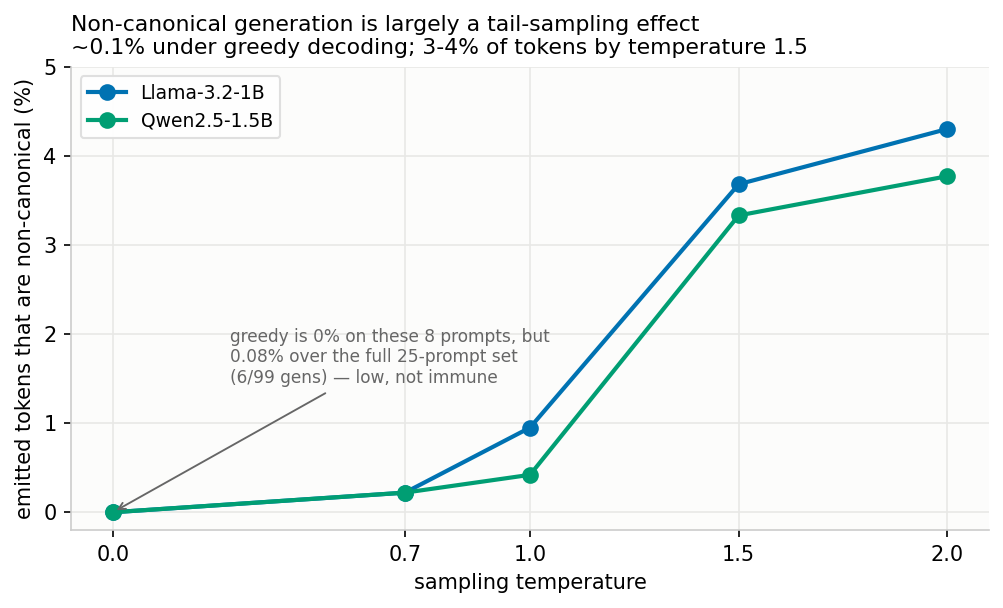
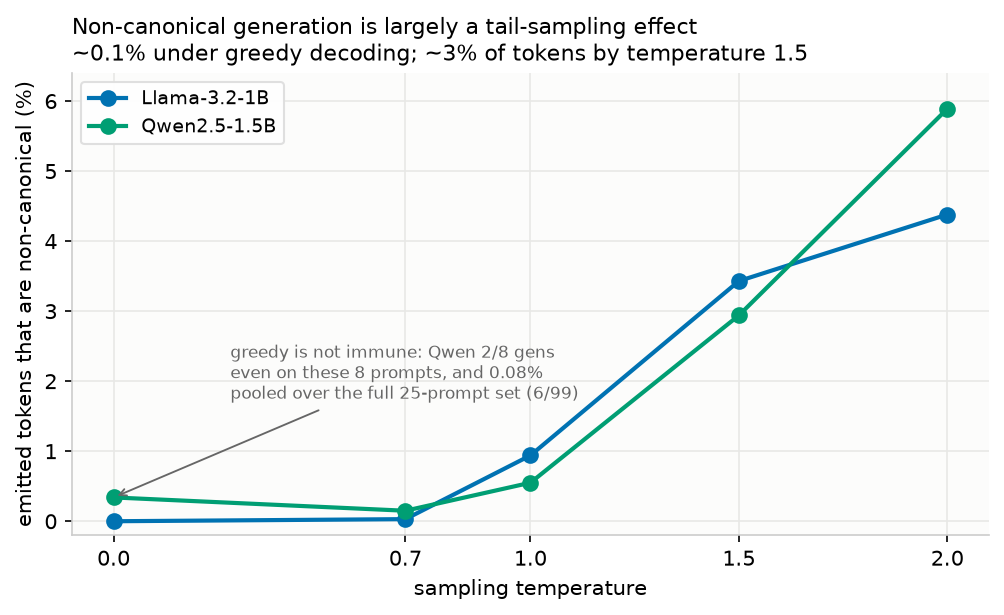
Align every quoted number with the published artifacts; fix broken repro path
From a full independent re-verification of WRITEUP.md against the HF dataset
(all headline tables reproduce exactly; these are the deviations found):

- "0 induced of 294 compliant productions" -> 346 (of 348 trials): 294 matches
  no quantity computable from api/induce_*.jsonl; 346 is the sum of the
  results table itself. Fixed in WRITEUP, README; RESULTS annotated.
- Decay + temperature tables/figures now quote the published pinned re-run
  artifacts (recomputable via --from-jsonl) instead of the unpublished
  original sweeps; RESULTS erratum records both sets of values.
- "8-prompt subset reads 0% at greedy" contradicted by the published
  temperature artifact (Qwen 2/8 at temp 0) — reworded, and the figure
  annotation updated.
- WRITEUP Data section commands: the documented two-liner failed verbatim
  (huggingface-cli not on PATH; the *.jsonl glob crashed phase2_verify on
  induce_* files). Replaced with the verified working path; phase2_verify now
  skips non-rate-table schemas gracefully.
- 0.0003 retok-transcript probability is seed-0 only -> quoted as per-seed
  range 0.0003-0.0007 and recorded in RESULTS (was absent).
- Smaller fixes: CJK by-script range 0.00-1.07% (was 0.12-1.07%), OpenAI-line
  ceiling 0.015% (4.1-mini is 0.0143%), DeepSeek V3-0324 english slice noted
  (0.14%, n=5 gens), Qwen3 usable gens 92 not ~89, truncation-table
  conditioning documented, EXPERIMENT_PLAN stale confounded numbers annotated,
[…]

diff --git a/retok/figures.py b/retok/figures.py
@@ -262,20 +262,21 @@ def plot_scale_ladder(out_path: Path) -> None:
 # Temperature sweep (code+multilingual prompts, 48 gens/cell; the temp-0 cell is
 # 8 deterministic gens, since greedy repeats). See RESULTS.md.
 #
-# NOTE the temp-0 zeros below are subset-limited, not a true zero: re-running
-# greedy over the full 25-prompt set finds 0.08% pooled across four models
-# (RESULTS.md, "Greedy decoding is NOT 0%"). The 8-prompt sweep set contains no
-# arithmetic prompts, which is where GPT-2's greedy hits are. Kept as measured
-# so this curve stays one internally-consistent experiment; the annotation on
-# the plot carries the correction.
+# Values are the published temperature_*.jsonl artifacts (pinned re-run of the
+# sweep, 48 gens/cell, seed 0) so the figure matches what a reader can recompute
+# via `phase2_temperature --from-jsonl`. NOTE the temp-0 cells are an 8-prompt
+# subset (deterministic, so n-samples adds nothing): Llama reads 0% there but
+# Qwen 2/8 (0.34%/tok), and the full 25-prompt greedy run finds 0.08% pooled
+# across four models (RESULTS.md, "Greedy decoding is NOT 0%") — greedy is low,
+# not immune. The annotation on the plot carries this.
 PHASE2_TEMPS = [0.0, 0.7, 1.0, 1.5, 2.0]
 # CONTROLLED (pure sampling). Per-generation here is fine: it's a within-model
 # comparison at FIXED generation length, so the length-saturation problem that
 # rules per-generation out for cross-domain comparison doesn't apply.
 PHASE2_TEMP_RATES = {  # per-TOKEN % (we report per-token everywhere; the
     # per-generation rate saturates with length and isn't comparable)
-    "Llama-3.2-1B": ([0.00, 0.22, 0.95, 3.68, 4.30], "#0072B2"),
-    "Qwen2.5-1.5B": ([0.00, 0.22, 0.42, 3.33, 3.77], "#009E73"),
+    "Llama-3.2-1B": ([0.00, 0.03, 0.94, 3.43, 4.38], "#0072B2"),
+    "Qwen2.5-1.5B": ([0.34, 0.15, 0.55, 2.94, 5.89], "#009E73"),
 }
 
 
@@ -298,20 +299,20 @@ def plot_temperature(out_path: Path) -> None:
     ax.set_xticks(PHASE2_TEMPS)
     ax.set_xlabel("sampling temperature")
     ax.set_ylabel("emitted tokens that are non-canonical (%)")
-    ax.set_ylim(-0.2, 5.0)
+    ax.set_ylim(-0.2, 6.4)
     ax.set_title(
         "Non-canonical generation is largely a tail-sampling effect\n"
-        "~0.1% under greedy decoding; 3-4% of tokens by temperature 1.5",
+        "~0.1% under greedy decoding; ~3% of tokens by temperature 1.5",
         fontsize=10.5,
         loc="left",
     )
-    # The 0.0 points read as an exact zero, which a wider prompt set refutes.
+    # The 0.0 points read as near-zero, which a wider prompt set refutes.
     ax.annotate(
-        "greedy is 0% on these 8 prompts, but\n"
-        "0.08% over the full 25-prompt set\n"
-        "(6/99 gens) — low, not immune",
-        xy=(0.0, 0.0),
-        xytext=(0.28, 1.45),
+        "greedy is not immune: Qwen 2/8 gens\n"
+        "even on these 8 prompts, and 0.08%\n"
+        "pooled over the full 25-prompt set (6/99)",
+        xy=(0.0, 0.34),
+        xytext=(0.28, 1.75),
         fontsize=8.2,
         color=MUTED,
         arrowprops={"arrowstyle": "->", "color": MUTED, "linewidth": 0.9},
@@ -562,10 +563,12 @@ def plot_phase2_rates(out_path: Path) -> None:
     print(f"Wrote {out_path}")
 
 
-# Causal-contamination decay (phase2_decay, Llama-3.2-1B, 49 spans).
+# Causal-contamination decay (phase2_decay, Llama-3.2-1B, 60 spans). Values are
+# the published decay_*.jsonl artifact (pinned re-run) so the figure matches
+# what a reader can recompute via `phase2_decay --from-jsonl`.
 DECAY_D = [0, 1, 2, 4, 8, 16, 32, 64]
-DECAY_MEDKL = [0.227, 0.062, 0.025, 0.016, 0.007, 0.004, 0.003, 0.002]
-DECAY_FLIP = [50, 27, 14, 20, 12, 9, 11, 15]
+DECAY_MEDKL = [0.392, 0.118, 0.043, 0.014, 0.012, 0.005, 0.002, 0.004]
+DECAY_FLIP = [50, 39, 27, 16, 18, 15, 7, 12]
 
 
 def plot_decay(out_path: Path) -> None:
@@ -595,7 +598,7 @@ def plot_decay(out_path: Path) -> None:
     )
     ax1.set_yscale("log")
     ax1.set_ylabel("median next-token KL (nats)")
-    ax1.set_title("Magnitude dilutes ~100x by 16 tokens", fontsize=10, loc="left")
+    ax1.set_title("Magnitude dilutes ~78x by 16 tokens", fontsize=10, loc="left")
 
     ax2.plot(
         DECAY_D,
@@ -609,11 +612,11 @@ def plot_decay(out_path: Path) -> None:
     ax2.set_ylim(0, 56)
     ax2.set_ylabel("top-1 next-token flips (%)")
     ax2.set_title(
-        "...but the flip rate plateaus near 10%, it doesn't vanish",
+        "...but the flip rate plateaus near 10-15%, it doesn't vanish",
         fontsize=10,
         loc="left",
     )
-    ax2.axhspan(9, 15, color=ORANGE, alpha=0.10, zorder=1)
+    ax2.axhspan(7, 18, color=ORANGE, alpha=0.10, zorder=1)
 
     fig.suptitle(
         "A single non-canonical token perturbs every later position",

diff --git a/retok/phase2_verify.py b/retok/phase2_verify.py
@@ -44,6 +44,12 @@ def verify(paths: list[Path]) -> int:
         if not records:
             print(f"{path}: EMPTY")
             continue
+        if "generated_ids" not in records[0]:
+            # e.g. induce_*.jsonl (induction trials) swept in by a glob —
+            # different schema, verified by its own tooling.
+            print(f"\n=== {path.name} ===")
+            print("  SKIPPED — no generated_ids field (not a rate-table artifact)")
+            continue
         model = records[0]["model"]
         try:
             tok = AutoTokenizer.from_pretrained(model)

diff --git a/WRITEUP.md b/WRITEUP.md
@@ -38,7 +38,7 @@ digit-by-digit (3 tokens), sometimes as a single "merged" answer token.
 | how often it *prefers* the one-token form (full-vocab argmax) | **0%** |
 | probability it assigns the correct one-token answer | **0.003** |
 | decode positions: actual → re-tokenized | **3 → 1** (whole transcript 13 → 7) |
-| probability of the answer given the *re-tokenized* transcript | **0.0003** |
+| probability of the answer given the *re-tokenized* transcript | **0.0003–0.0007** (per seed) |
 
 <sub>The two middle rows are conditioned differently, which is worth stating
 because they look inconsistent otherwise. The 1.3% is an argmax *restricted to
@@ -61,18 +61,20 @@ no token-ID logging at all.
 whitespace, so a bad split of one word doesn't change how later words encode —
 the *tokenization* recovers at the next word boundary. But *causal* damage
 outlives it: attention is causal, so every later position attends to a token that
-was never emitted. Walking forward from a non-canonical span in Llama-3.2-1B:
+was never emitted. Walking forward from a non-canonical span in Llama-3.2-1B
+(60 spans; the published `decay_*.jsonl` artifact, recomputable via
+`phase2_decay --from-jsonl`):
 
 | tokens past the span | median next-token KL | top-1 flip |
 |---:|---:|---:|
-| 0 | 0.227 | 50% |
-| 4 | 0.016 | 20% |
-| 16 | 0.004 | 9% |
-| 64 | 0.002 | 15% |
+| 0 | 0.392 | 50% |
+| 4 | 0.014 | 16% |
+| 16 | 0.005 | 15% |
+| 64 | 0.004 | 12% |
 
-Magnitude decays ~57× within 16 tokens (and ~110× by 64), but the flip rate
-plateaus near 10%
-rather than vanishing. Those distant flips are near-ties (median KL 0.002), so
+Magnitude decays ~78× within 16 tokens (and ~98× by 64), but the flip rate
+plateaus near 10–15%
+rather than vanishing. Those distant flips are near-ties (median KL 0.004), so
 the practical reading is: **the span's neighbourhood is genuinely unreliable for
 per-position analysis; further out, only positions where the model was
 near-indifferent are affected.**
@@ -104,7 +106,7 @@ generations reach 5.2%. Those labels are the *prompt's* language, though, and
 the small models answer Russian and Japanese prompts mostly in English
 (Llama-3.2-1B emits 7% CJK characters for CJK prompts; Llama-3.1-8B emits 37%).
 Re-attributing each token to the script it is actually written in, **CJK tokens
-are among the lowest-rate tokens, not the highest** (0.12–1.07%).
+are among the lowest-rate tokens, not the highest** (0.00–1.07%).
 
 What drives the domain effect is the prompt pushing the model off-distribution.
 Holding script fixed at Latin, Llama-3.2-1B is non-canonical on 0.03% of Latin
@@ -116,17 +118,18 @@ domain column as "how far outside its comfort zone the prompt puts the model",
 not as "how hard this script is to tokenize".
 
 **Temperature dominates everything.** **0.08%** of tokens under greedy
-decoding, **0.4–1.0%** at temperature 1.0, and **3–4%** by temperature 1.5 — a
-~4× jump for half a point of temperature. This is largely a tail-sampling
+decoding, **0.5–1.0%** at temperature 1.0, and **~3–3.5%** by temperature 1.5 — a
+4–5× jump for half a point of temperature. This is largely a tail-sampling
 phenomenon: models concentrate mass on the canonical continuation, and most of
 these tokens come out of the tail.
 
 Greedy is **not zero**: at argmax across 99 generations from four models, 6
 contained a non-canonical span — the model's *most likely* continuation is
-sometimes a non-canonical token. (An 8-prompt subset reads 0% at greedy; the
-full 25-prompt set does not, because GPT-2's greedy hits are concentrated in
-arithmetic prompts.) Temperature moves the rate roughly an order of magnitude,
-from 0.08% at greedy to 3–4% at 1.5.
+sometimes a non-canonical token. (An early 8-prompt sweep read 0% at greedy;
+neither the full 25-prompt set nor the published re-run of that sweep does —
+GPT-2's greedy hits are concentrated in arithmetic prompts, and Qwen hits on
+2 of the 8 even there.) Temperature moves the rate ~40×,
+from 0.08% at greedy to ~3% at 1.5.
 
 ![Non-canonical rate vs temperature](figures/phase2_temperature.png)
 
@@ -166,14 +169,15 @@ fake, a zero rate is ambiguous with provider-side re-serialization.
 
 | frontier model | pooled per-token |
 |---|---:|
-| gpt-4o / gpt-4.1 (+ minis) | ≤0.014% |
+| gpt-4o / gpt-4.1 (+ minis) | ≤0.015% |
 | Qwen3-235B-A22B-2507 | 0% observed in 23k tokens |
 | **DeepSeek V3-0324 / V3.1** | **0.39% / 0.38%** |
 
 A **40× spread among current frontier models** — the rate is
 lineage-dependent, not uniformly vanishing. The two DeepSeek generations
 replicate each other, and V3.1 is nonzero even on English (0.17%, vs
-0.00–0.03% for every other modern model here); its spans are mostly
+0.00–0.03% for the OpenAI and Qwen lines; V3-0324's English slice reads 0.14%
+on a thin 5 generations); its spans are mostly
 punctuation–newline boundary splits. Everything in one picture:
 
 ![All 17 models, 2019–2025: falling but lineage-dependent](figures/phase2_overview.png)
@@ -187,7 +191,8 @@ are externally unmeasurable on every serving path we found.**
 
 **Report the length, and report per-token.** The per-*generation* rate — "did
 this sample contain a non-canonical span?" — is a strong function of how long
-you sampled: truncating our generations to 32/64/128/200 tokens moves GPT-2 from
+you sampled: truncating our generations to 32/64/128/200 tokens (counting, at
+each N, the generations that emitted at least N tokens) moves GPT-2 from
 20% to 64% while its per-token rate stays at ~1.6%. That follows from BPE being
 non-recovering: once a sequence goes off-canonical, every extension stays
 off-canonical, so the sequence-level flag only accumulates and saturates at
@@ -232,7 +237,7 @@ complies."
 every API-measurable frontier model (gpt-4o/4.1 lines, DeepSeek-V3.1,
 Qwen3-235B; `phase2_induce_api.py`) gets 97–100% compliance, which removes the
 small models' limiting factor and cleanly isolates the tokenization question:
-**0 induced of 294 compliant productions.** Given the ideal semantic setup,
+**0 induced of 346 compliant productions** (of 348 trials). Given the ideal semantic setup,
 frontier models emit the canonical compound every time. Combined with the rate
 table, the frontier picture is two-axis: DeepSeek emits non-canonical tokens
 *spontaneously* but cannot be *steered* into targeted splits; the OpenAI and
@@ -361,10 +366,13 @@ a HuggingFace dataset:
 Generation needs a GPU; **analysis doesn't**:
 
 ```bash
-huggingface-cli download brendanlong/retok-noncanonical-tokenization \
-    --repo-type dataset --local-dir data/retok/artifacts
-uv run python -m retok.phase2_verify data/retok/artifacts/*.jsonl
+uv run python -m retok.phase2_verify --all-published  # the rate table, from raw IDs
+bash scripts/reproduce_analyses.sh                    # every table in this writeup
 ```
 
 That recomputes canonicality from the raw IDs rather than trusting our stored
-flags, so every rate above is checkable independently of our generation step.
+flags, so the rates above are checkable independently of our generation step.
+One provenance note: the interp/decay/temperature divergence artifacts are
+pinned re-runs (the original sweeps predate artifact publishing), and the decay
+and temperature numbers above quote those published artifacts; the original
+runs' values, where they differ slightly, are preserved in RESULTS.md.

diff --git a/RESULTS.md b/RESULTS.md
@@ -28,6 +28,44 @@
 > the final 80-trial artifacts were generated. WRITEUP.md §3 carries the
 > correct numbers; the headline induction results (38/41, 6/8, the controls,
 > and the pooled Fisher test) recompute exactly.
+>
+> **Further errata (annotation, 2026-08-24, from a full independent
+> re-verification of every quoted number against the published artifacts —
+> log body still verbatim):**
+>
+> - **"0 induced of 294 compliant productions" is wrong; the correct count is
+>   346** (60+60+60+60+48+58 — the sum of the section's own table; 348 trials,
+>   2 Qwen trials returned no logprobs and left no record). No quantity
+>   computable from the `api/induce_*.jsonl` records equals 294. The error
+>   understates n, so the null is unaffected.
+> - **Frontier logprobs table:** Qwen3-235B usable generations are 92 in the
+>   published artifact, not "~89". The V3-0324 english cell (shown "—") is
+>   0.14% per-token in its artifact (2/1,415 tokens, from 1 of only 5 english
+>   generations) — thin, but it means "0.00–0.03% english for every other
+>   modern model" should exclude the DeepSeek lineage, not just V3.1.
+>   gpt-4.1-mini pooled is 0.0143%, so "0.01%" rounds it down.
+> - **The published `temperature_*` / `decay_*` / `interp_*` artifacts are
+>   pinned re-runs** (`scripts/regenerate_divergence_artifacts.sh`; the
+>   original sweeps predate artifact publishing and their invocations were not
+>   fully recorded). Cell values differ from the tables below at the 20–60%
+>   relative level with identical qualitative shape — e.g. decay median KL at
+>   the boundary is 0.392 (60 spans) in the artifact vs 0.227 (49 spans)
+>   below; interp flips are 50% (82/165), confident flips 3% (5/165) vs 51% /
+>   4% below; temperature per-token at 1.0 is 0.55%/0.94% (Qwen/Llama) vs
+>   0.42%/0.95% below. WRITEUP.md and the figures now quote the published
+>   artifacts.
+> - **"Both models are exactly 0% under greedy decoding" is contradicted by
+>   the published temperature artifact**: the pinned re-run has Qwen2.5 at 2/8
+>   generations non-canonical at temperature 0 on that same 8-prompt subset
+>   (0.34% per-token). This strengthens the later "Greedy decoding is NOT 0%"
+>   correction rather than weakening it.
+> - **The `mean_retok_p_correct` behind WRITEUP §1's "probability of the
+>   answer given the re-tokenized transcript" was never logged here**: it is
+>   0.00033 for retok-main-s0 and 0.00056 / 0.00066 for s1 / s2 (from
+>   `retok.analysis` on the published checkpoints). The reconciliation table's
+>   producing script was also not committed; its numbers re-derive from the
+>   published checkpoints to within 0.02pp (restricted argmax 1.29% vs 1.27%
+>   quoted).
 
 
 **Question.** Can a model's actual token stream differ from the canonical

diff --git a/hf_dataset_card.md b/hf_dataset_card.md
@@ -67,6 +67,8 @@ repetition_penalty=1.0` — pinned explicitly, not inherited from each repo's
 | `induce_<model>.jsonl` | prompted-induction trials + matched controls |
 | `greedy/<model>.jsonl` | greedy-decoding (temperature 0) runs over the full prompt set |
 | `lw_comparison/<model>.jsonl` | the three "Weird Re-Tokenization" comparison models, our methodology |
+| `api/<model>.jsonl` | frontier models measured via chat-completions logprobs (OpenAI: `generated_ids`; OpenRouter: `sampled_tokens` strings + `provider`) |
+| `api/induce_<model>.jsonl` | the prompted-induction probe + controls on the frontier models |
 | `interp_<model>.jsonl` | boundary-divergence records (per-generation, with KL / next-token IDs at the first non-canonical boundary) |
 | `decay_<model>.jsonl` | contamination-decay records (per-generation, with KL / top-1 flip at each distance past the span) |
 | `temperature_<model>.jsonl` | temperature-sweep records (rate-table schema plus varying `temperature`) |

diff --git a/EXPERIMENT_PLAN.md b/EXPERIMENT_PLAN.md
@@ -113,6 +113,13 @@ be false. dim=16 is the honest regime.
 
 ## Phase 2 (done — see RESULTS.md)
 
+> **Stale numbers (annotation).** The figures in this paragraph are from the
+> early, confounded run (`top_p=0.95`, per-model inherited sampling params,
+> Llama's decode cleanup on) and were superseded by the controlled
+> re-measurement — including the "Qwen2.5 ≈0%" claim, which was retracted.
+> RESULTS.md and WRITEUP.md carry the correct tables; this paragraph is kept
+> as the pre-registration-era snapshot.
+
 Wild-caught result: open models sampled while retaining token IDs, find
 naturally non-canonical spans (`encode(decode(gen_ids)) != gen_ids`), compare
 the actual vs re-tokenized stream. Outcome: real models generate non-canonically

diff --git a/retok_rl/README.md b/retok_rl/README.md
@@ -1,6 +1,10 @@
 # retok_rl — will RL spontaneously learn to emit non-canonical tokens?
 
-**Status:** planned. See [EXPERIMENT_PLAN.md](EXPERIMENT_PLAN.md).
+**Status:** run — see [RESULTS.md](RESULTS.md). Headline (single seed,
+gpt2-large): canonical rate fell 100% → 61.5% over 2,000 GRPO steps under a
+reward blind to tokenization, drifting toward reward-dense *greedy-longest*
+chunks — not the single-digit (compute-buying) form, which stayed ≈0.
+See [EXPERIMENT_PLAN.md](EXPERIMENT_PLAN.md) for the pre-registered predictions.
 
 Follow-up to [`retok`](../retok/), which established that re-tokenized
 transcripts can hide computation, that real models emit non-canonical tokens at

diff --git a/README.md b/README.md
@@ -42,7 +42,7 @@ adversary required.
    44/49 vs 1/25, Fisher exact p ≈ 1.5×10⁻¹³. It works through *semantics*, not
    form: "one character at a time" and "one digit at a time" both fail
    completely. On six API-measurable frontier models the same probe gets 97–100%
-   compliance and **0 induced of 294** compliant productions.
+   compliance and **0 induced of 346** compliant productions.
 
 ![All 17 models, 2019–2025: falling but lineage-dependent](figures/phase2_overview.png)
 
